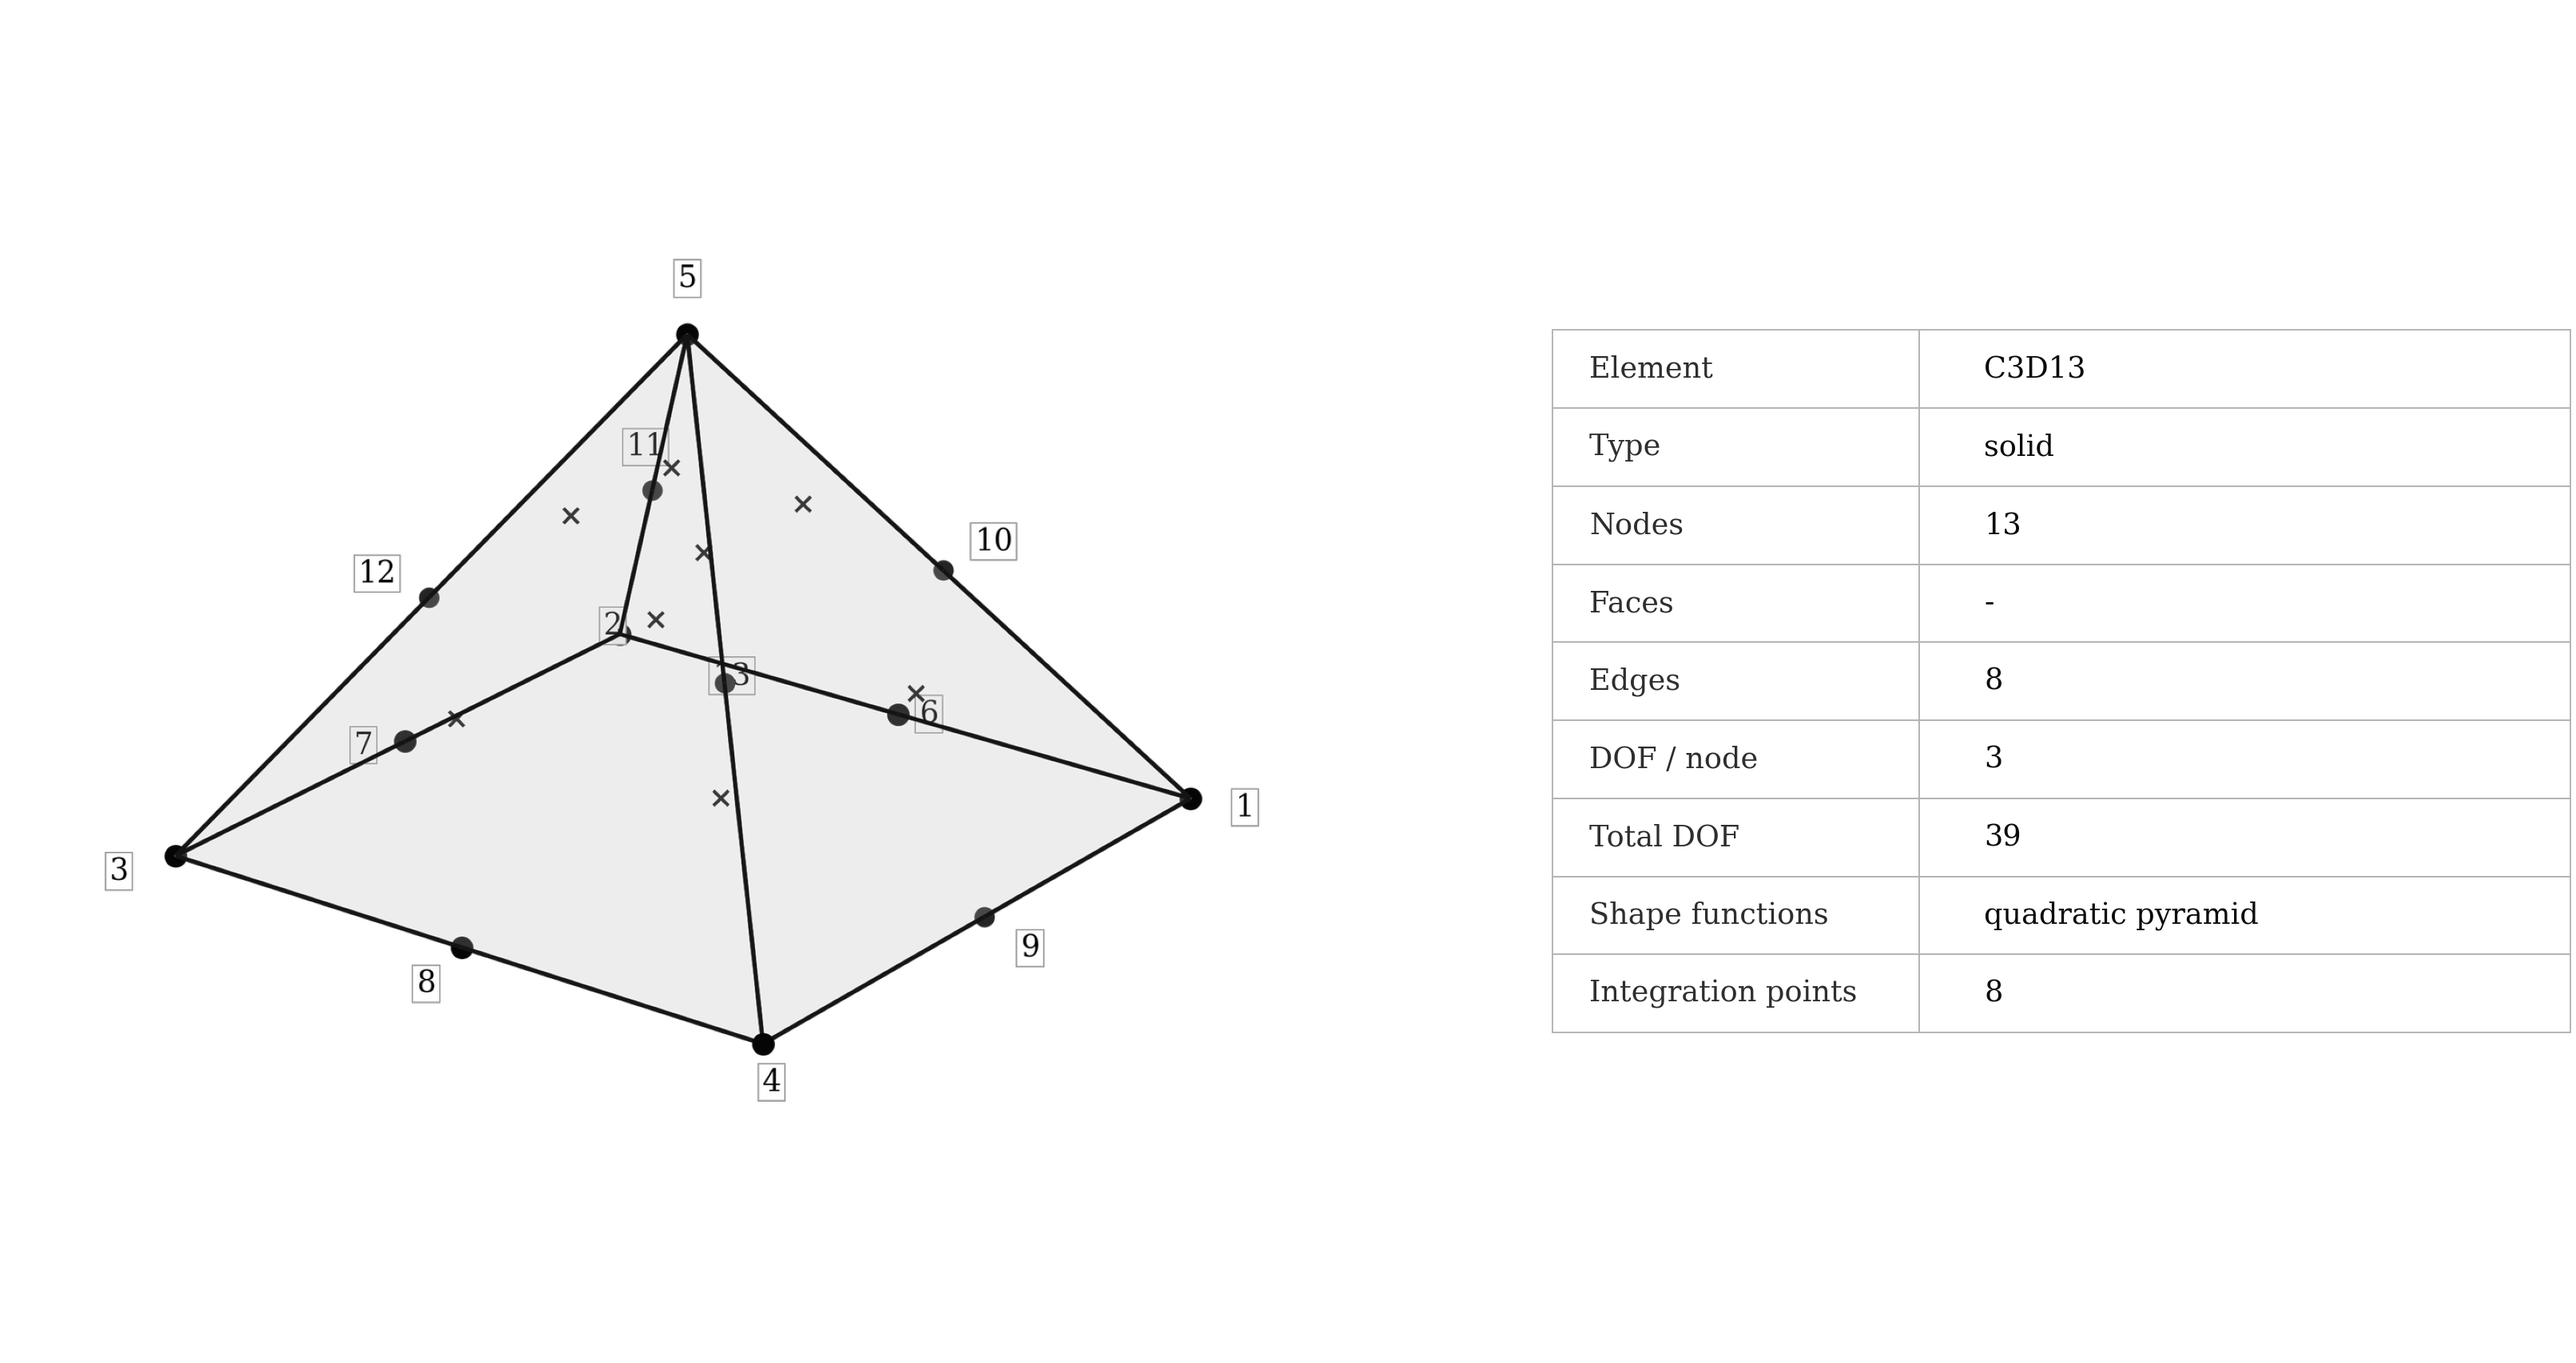
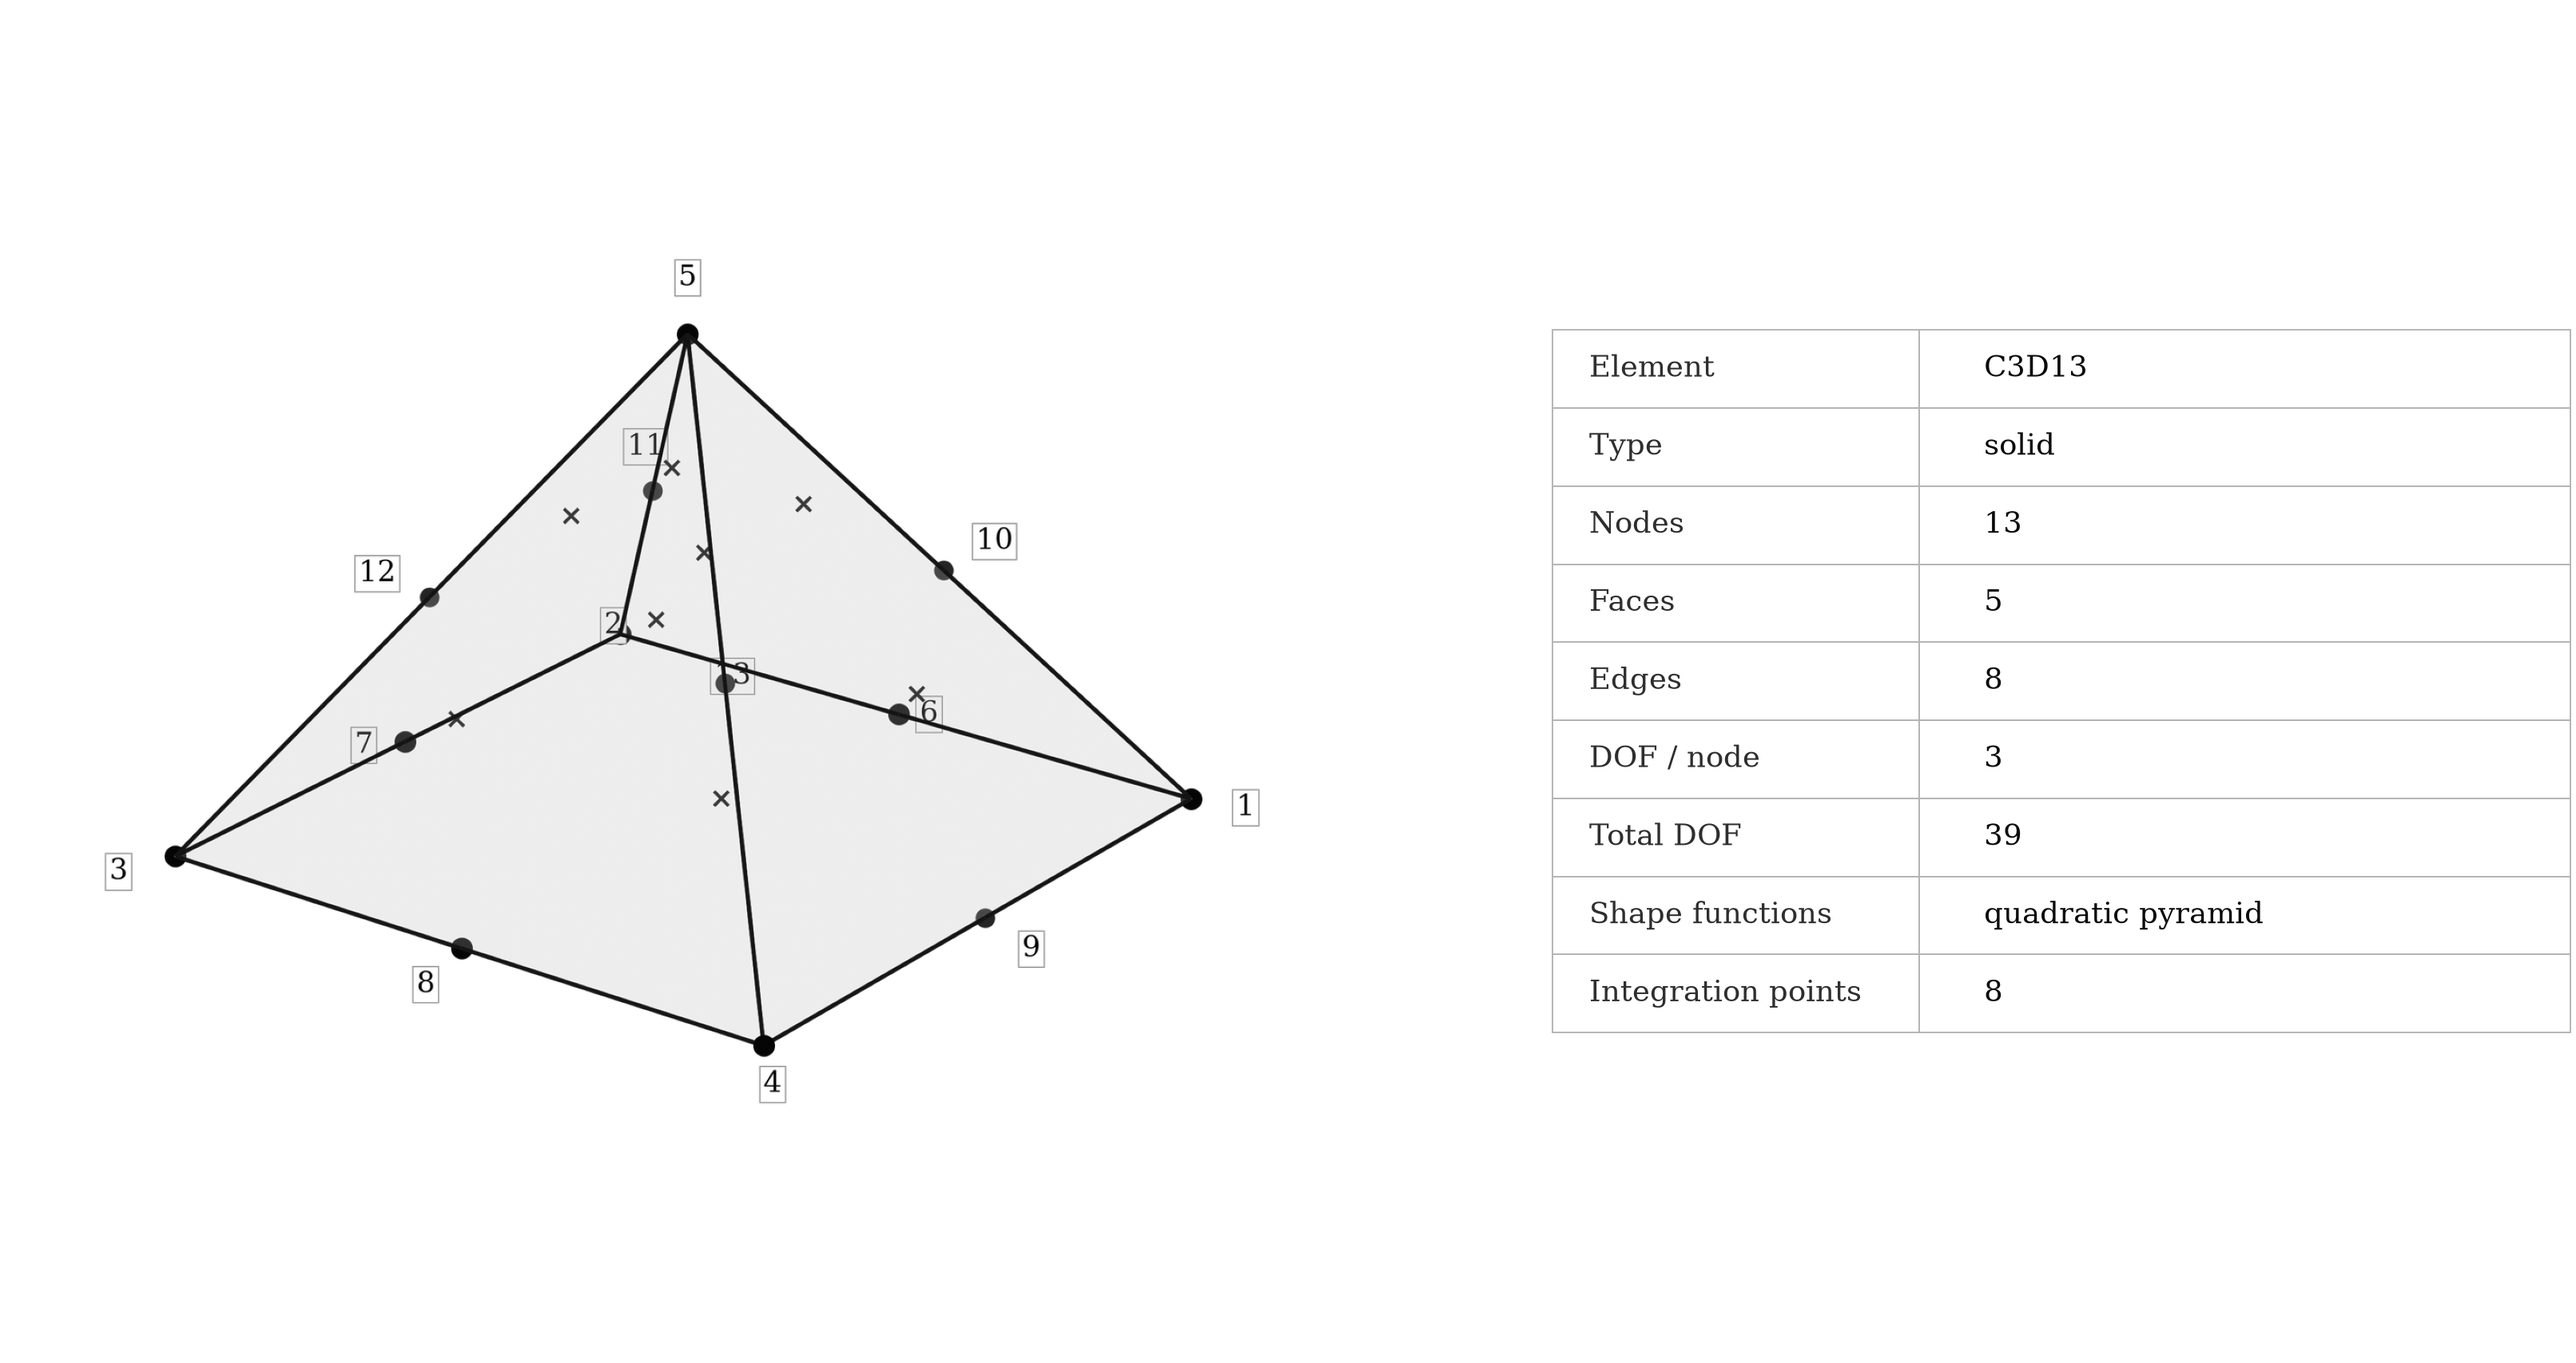
Implement C3D13 quadratic surface sides with correct orientation (#141)
* Implement outward-oriented C3D13 quadratic surface sides

* Document C3D13 boundary surface support

* Test C3D13 quadratic face connectivity and outward normals

* Verify C3D13 face interpolation matches volume shape functions

* Remove C3D13 surface sides regression test

* Synchronize C3D13 schematic face metadata with solver

* Temporarily run C3D13 schematic generator on GitHub Actions

* Regenerate C3D13 schematic after adding surface sides

* Remove temporary C3D13 schematic generation workflow

---------

diff --git a/src/model/solid/c3d13.cpp b/src/model/solid/c3d13.cpp
@@ -3,7 +3,7 @@
  * @brief Implements the thirteen-node quadratic pyramid solid geometry.
  *
  * Rational interpolation maps the natural pyramid, including its collapsed
- * apex. Boundary surface extraction is currently unavailable.
+ * apex. Its five boundary faces use quadratic surface interpolation.
  * The topology supplies natural interpolation, node ordering and quadrature
  * to SolidElement; material response and assembly belong to the common base.
  *
@@ -16,8 +16,8 @@
 #include "c3d13.h"
 
 #include "../../math/extrapolate.h"
-#include "../geometry/surface/surface4.h"
-#include "../geometry/surface/surface3.h"
+#include "../geometry/surface/surface6.h"
+#include "../geometry/surface/surface8.h"
 
 namespace fem {
 namespace model {
@@ -38,25 +38,40 @@ const math::quadrature::Quadrature& C3D13::integration_scheme() const {
     return quad;
 }
 /**
- * Returns no boundary surface for the quadratic pyramid.
+ * Extracts the five outward-oriented quadratic pyramid faces (S1-S5).
  *
- * Surface extraction is not implemented for this topology. Volume mechanics
- * remain available, but callers cannot obtain a boundary face through this API.
+ * S1 is the eight-node base; S2-S5 are six-node triangular side faces.
+ * Midside nodes follow each surface's oriented corner-edge ordering.
  *
- * @param surface_id Requested face identifier.
- * @return nullptr for every face identifier.
+ * @param surface_id One-based face identifier.
+ * @return Requested surface, or nullptr for an invalid identifier.
  */
 SurfacePtr C3D13::surface(ID surface_id) {
-    // TODO: implement this
-    (void) surface_id;
-    return nullptr;
+    switch (surface_id) {
+        case 1:
+            return std::make_shared<Surface8>(
+                std::array<ID, 8> {node_ids[0], node_ids[3], node_ids[2], node_ids[1], node_ids[8], node_ids[7], node_ids[6], node_ids[5]});
+        case 2:
+            return std::make_shared<Surface6>(
+                std::array<ID, 6> {node_ids[0], node_ids[1], node_ids[4], node_ids[5], node_ids[10], node_ids[9]});
+        case 3:
+            return std::make_shared<Surface6>(
+                std::array<ID, 6> {node_ids[1], node_ids[2], node_ids[4], node_ids[6], node_ids[11], node_ids[10]});
+        case 4:
+            return std::make_shared<Surface6>(
+                std::array<ID, 6> {node_ids[2], node_ids[3], node_ids[4], node_ids[7], node_ids[12], node_ids[11]});
+        case 5:
+            return std::make_shared<Surface6>(
+                std::array<ID, 6> {node_ids[3], node_ids[0], node_ids[4], node_ids[8], node_ids[9], node_ids[12]});
+        default: return nullptr;
+    }
 }
 
 /**
  * Evaluates the thirteen-node quadratic pyramid shape functions in natural coordinates.
  *
  * Rational interpolation maps the natural pyramid, including its collapsed
- * apex. Boundary surface extraction is currently unavailable.
+ * apex. Its five boundary faces use quadratic surface interpolation.
  * Values follow the fixed connectivity ordering used by nodal interpolation.
  *
  * @param r First natural coordinate.

diff --git a/documentation/pages/figures/element_schematics/generate.py b/documentation/pages/figures/element_schematics/generate.py
@@ -291,20 +291,18 @@ ELEMENTS: Dict[str, ElementDefinition] = {
             12: (-0.5, -0.5, 0.5),
             13: (0.5, -0.5, 0.5),
         },
-        # These faces are used only for drawing edges. The supplied solver code does
-        # not expose implemented surface definitions for C3D13.
+        # S1-S5 match the outward-oriented quadratic faces from C3D13::surface().
         faces={
-            1: (1, 2, 3, 4, 6, 7, 8, 9),
-            2: (1, 5, 2, 10, 11, 6),
-            3: (2, 5, 3, 11, 12, 7),
-            4: (3, 5, 4, 12, 13, 8),
-            5: (4, 5, 1, 13, 10, 9),
+            1: (1, 4, 3, 2, 9, 8, 7, 6),
+            2: (1, 2, 5, 6, 11, 10),
+            3: (2, 3, 5, 7, 12, 11),
+            4: (3, 4, 5, 8, 13, 12),
+            5: (4, 1, 5, 9, 10, 13),
         },
         integration_domain="DOMAIN_ISO_PYRAMID",
         integration_order="ORDER_QUARTIC",
         shape_functions="quadratic pyramid",
         dof_per_node=3,
-        has_faces_in_solver=False,
     ),
     "C3D15": ElementDefinition(
         name="C3D15",

diff --git a/src/model/solid/c3d13.h b/src/model/solid/c3d13.h
@@ -19,7 +19,7 @@ namespace fem { namespace model {
  * @brief Thirteen-node quadratic pyramid continuum element.
  *
  * Rational interpolation maps the natural pyramid, including its collapsed
- * apex. Boundary surface extraction is currently unavailable.
+ * apex. Boundary faces use outward-oriented quadratic surface interpolation.
  * The element stores global node identifiers in interpolation order and
  * inherits geometry transformations, constitutive state handling, thermal
  * operators and mechanical evaluation from SolidElement. Concrete methods
